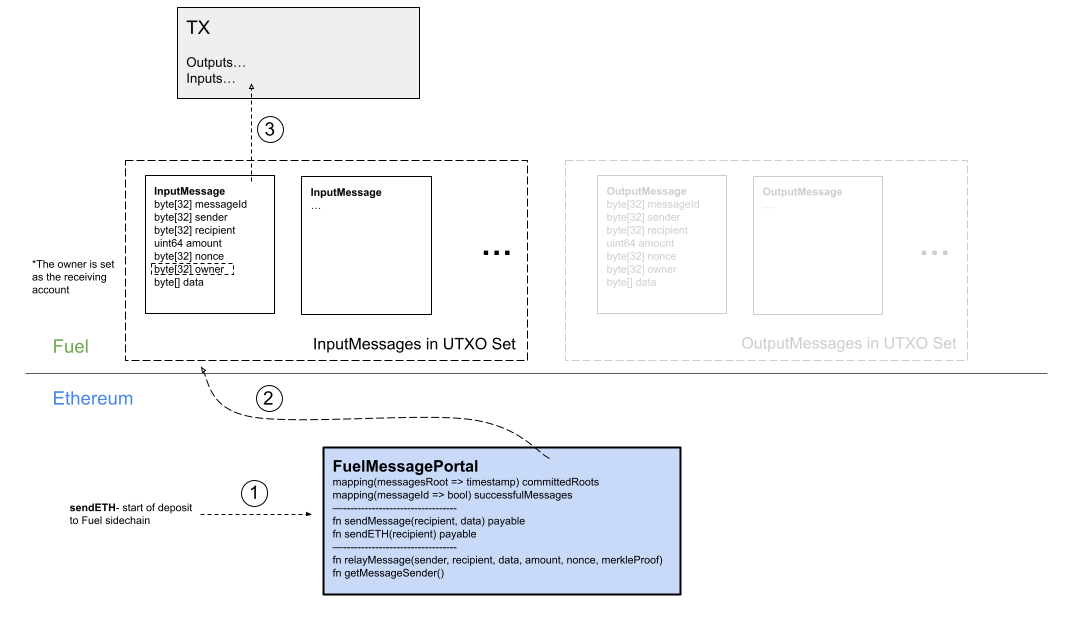
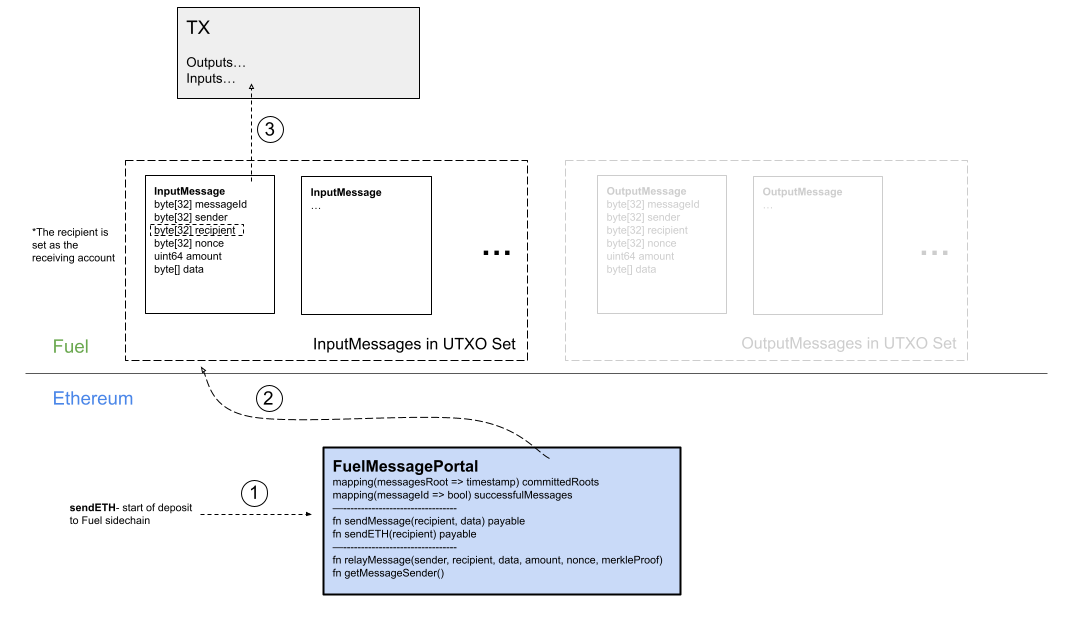
Updated docs with latest spec changes (#23)

Changed region(s): [[0.0309, 0.3636, 0.2163, 0.4848], [0.5871, 0.3636, 0.618, 0.4545]]

diff --git a/docs/design_docs.md b/docs/design_docs.md
@@ -17,8 +17,8 @@ The ETH bridge facilitates the transfer of ETH from Ethereum to be represented a
 ### ETH Bridge Deposit
 
 1. User starts a deposit by calling `sendETH()` on `FuelMessagePortal` which accepts an amount of ETH that gets custodied while bridged
-1. The Fuel client sees an outgoing message event emitted on the `FuelMessagePortal` and adds a corresponding `InputMessage` to the UTXO set with the designated owner
-1. The owner can now spend the amount value in the input message like any other input
+1. The Fuel client sees an outgoing message event emitted on the `FuelMessagePortal` and adds a corresponding `InputMessage` to the UTXO set with the designated recipient
+1. The recipient can now spend the amount value in the input message like any other input
 
 ![ETH Deposit Diagram](/docs/imgs/FuelMessagingETHDeposit.png)
 
@@ -38,10 +38,10 @@ The ERC-20 bridge facilitates the transfer of ERC-20 tokens from Ethereum to be 
 
 1. User starts a deposit by calling the `deposit()` function on the `L1ERC20Gateway` (after they have approved token transfer to `L1ERC20Gateway`)
 1. The `L1ERC20Gateway` transfers tokens to itself to custody while they are bridged
-1. The `L1ERC20Gateway` creates a message in the `FuelMessagePortal` to be relayed on Fuel with the `MessageToFungibleTokenPredicate` so that anyone can spend the `InputMessage` on a user's behalf but with guarantees that the transaction is built as it’s supposed to
-1. The Fuel client sees an outgoing message event emitted on the `FuelMessagePortal` and adds a corresponding `InputMessage` to the UTXO set with the designated owner
-1. A transaction is built and submitted by either the user or a relayer service that meets the requirements of the `MessageToFungibleTokenPredicate`
-1. A single call is made from the transaction script to the intended recipient Fuel token contract. This function verifies the sender and predicate owner of the `InputMessage`, parses the data from the `InputMessage` data field and mints the appropriate amount of tokens to the designated recipient
+1. The `L1ERC20Gateway` creates a message in the `FuelMessagePortal` to be relayed on Fuel with the `MessageToFungibleTokenPredicate` as the recipient so that anyone can spend the `InputMessage` on a user's behalf but with guarantees that the transaction is built as it’s supposed to
+1. The Fuel client sees an outgoing message event emitted on the `FuelMessagePortal` and adds a corresponding `InputMessage` to the UTXO set with the designated recipient predicate
+1. A transaction is built and submitted by either the user or a relayer service that meets the requirements of the `MessageToFungibleTokenPredicate` recipient
+1. A single call is made from the transaction script to the intended target Fuel token contract specified in the messages data field. This function verifies the sender and predicate recipient of the `InputMessage`, parses the data from the `InputMessage` data field and mints the appropriate amount of tokens
 
 ![ERC20 Deposit Diagram](/docs/imgs/FuelMessagingERC20Deposit.png)
 
@@ -59,10 +59,10 @@ The ERC-20 bridge facilitates the transfer of ERC-20 tokens from Ethereum to be 
 
 In order to prevent messages getting lost during generic messaging from L1 to Fuel, developers should follow the following standard practice utilizing common libraries.
 
-1. Either a contract or EOA calls `sendMessage()` on the `FuelMessagePortal` that creates a message to be relayed on Fuel with the `MessageToContractPredicate` so that anyone can spend the `InputMessage` on a user's behalf but with guarantees that the transaction is built as it’s supposed to
-1. The Fuel client sees an outgoing message event emitted on the `FuelMessagePortal` and adds a corresponding `InputMessage` to the UTXO set with the designated predicate owner
-1. A transaction is built and submitted by either the user or some relayer that meets the requirements of the `MessageToContractPredicate`
-1. The transaction script sends any amount on the message to the recipient contract and calls `processMessage()` on the recipient Fuel token contract
-1. This contract extends the standard `MessageRetryable` code which checks if the transaction includes the appropriate variable outputs exist on the transaction (if any) otherwise the `messageId` gets placed in storage to be retried in a later transaction
+1. Either a contract or EOA calls `sendMessage()` on the `FuelMessagePortal` that creates a message to be relayed on Fuel with the `MessageToContractPredicate` as the recipient so that anyone can spend the `InputMessage` on a user's behalf but with guarantees that the transaction is built as it’s supposed to
+1. The Fuel client sees an outgoing message event emitted on the `FuelMessagePortal` and adds a corresponding `InputMessage` to the UTXO set with the designated recipient predicate
+1. A transaction is built and submitted by either the user or some relayer service that meets the requirements of the `MessageToContractPredicate` recipient
+1. The transaction script sends the amount of ETH noted on the message and calls `processMessage()` on the contract specified in the message data field
+1. This contract extends the standard `MessageRetryable` code which checks that the transaction includes the appropriate variable outputs (if any) on the transaction otherwise the `messageId` gets placed in storage to be retried in a later transaction
 
 ![Retryable Messages Diagram](/docs/imgs/FuelMessagingRetryableMessages.png)
